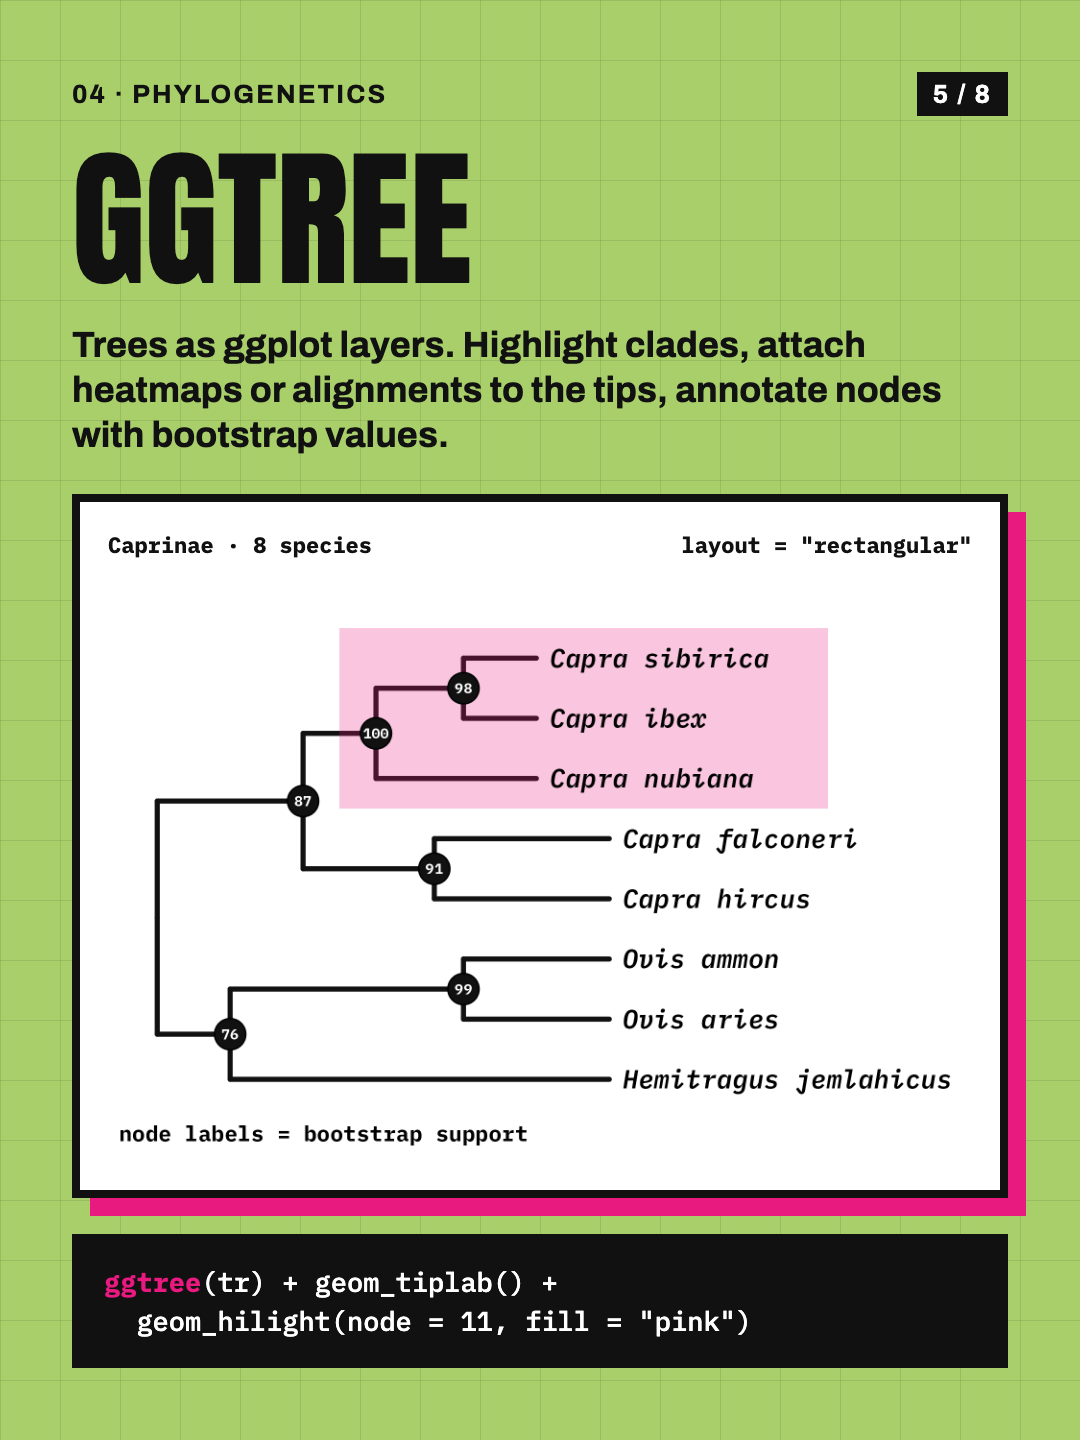
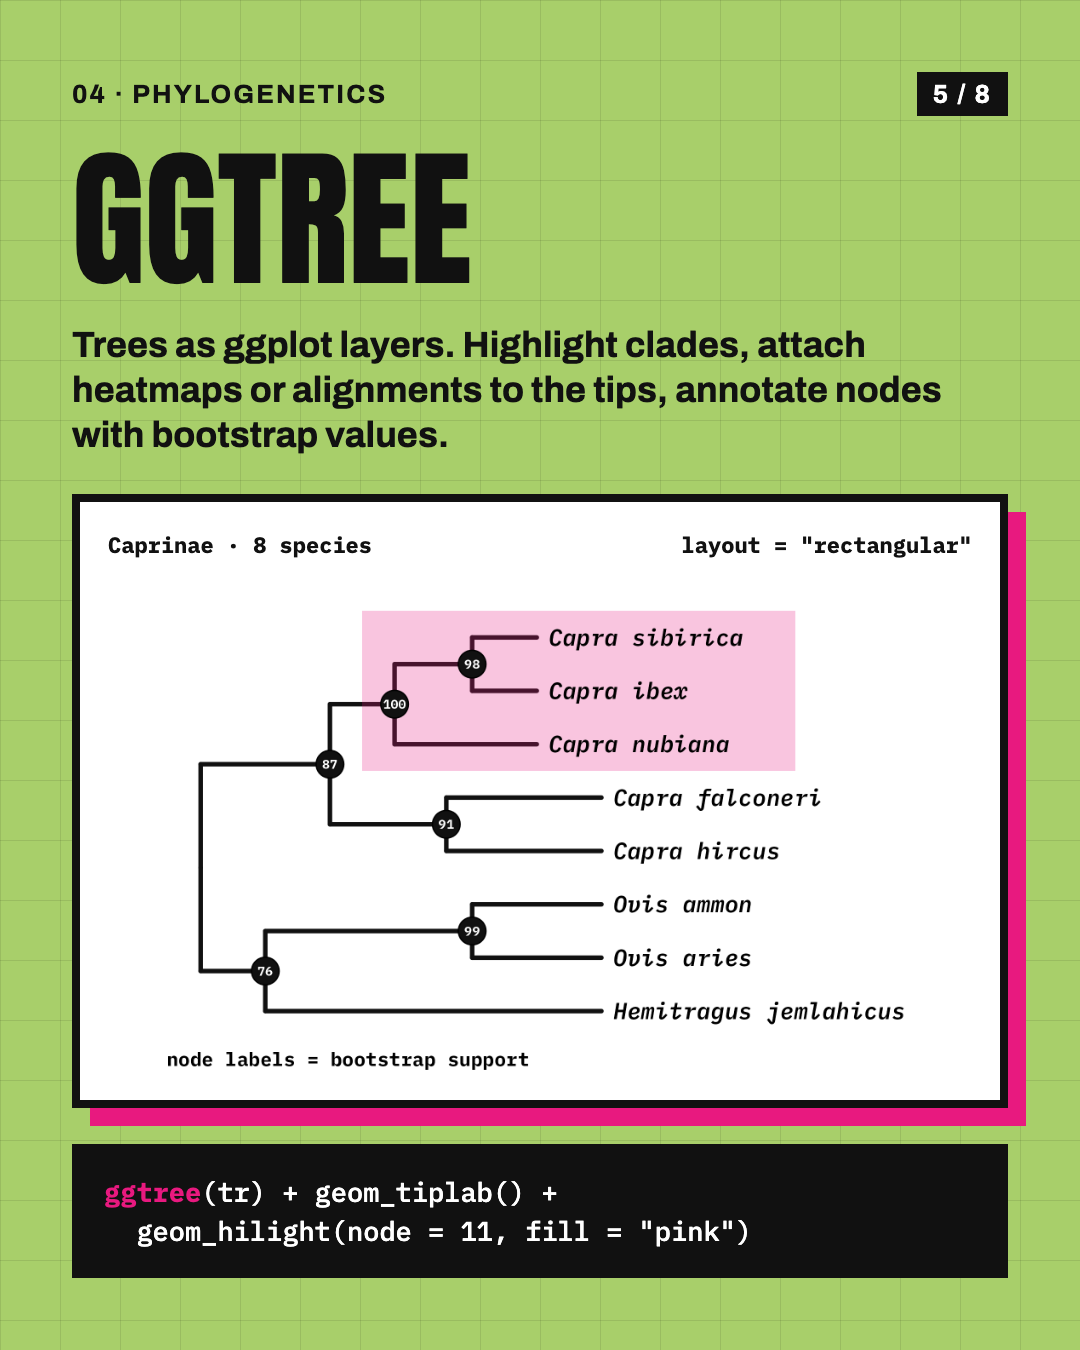
Back to 1080x1350 slides

diff --git a/bioinfo-plots-in-r/README.md b/bioinfo-plots-in-r/README.md
@@ -39,4 +39,4 @@ All plots share one theme, [`R/theme_ibex.R`](R/theme_ibex.R): IBM Plex Mono, bl
 
 ## The slides
 
-[`slides/`](slides) holds the eight 1080×1440 (3:4) images as posted. The slide layout is a static HTML page rendered with headless Chrome.
+[`slides/`](slides) holds the eight 1080×1350 images. The slide layout is a static HTML page rendered with headless Chrome.
